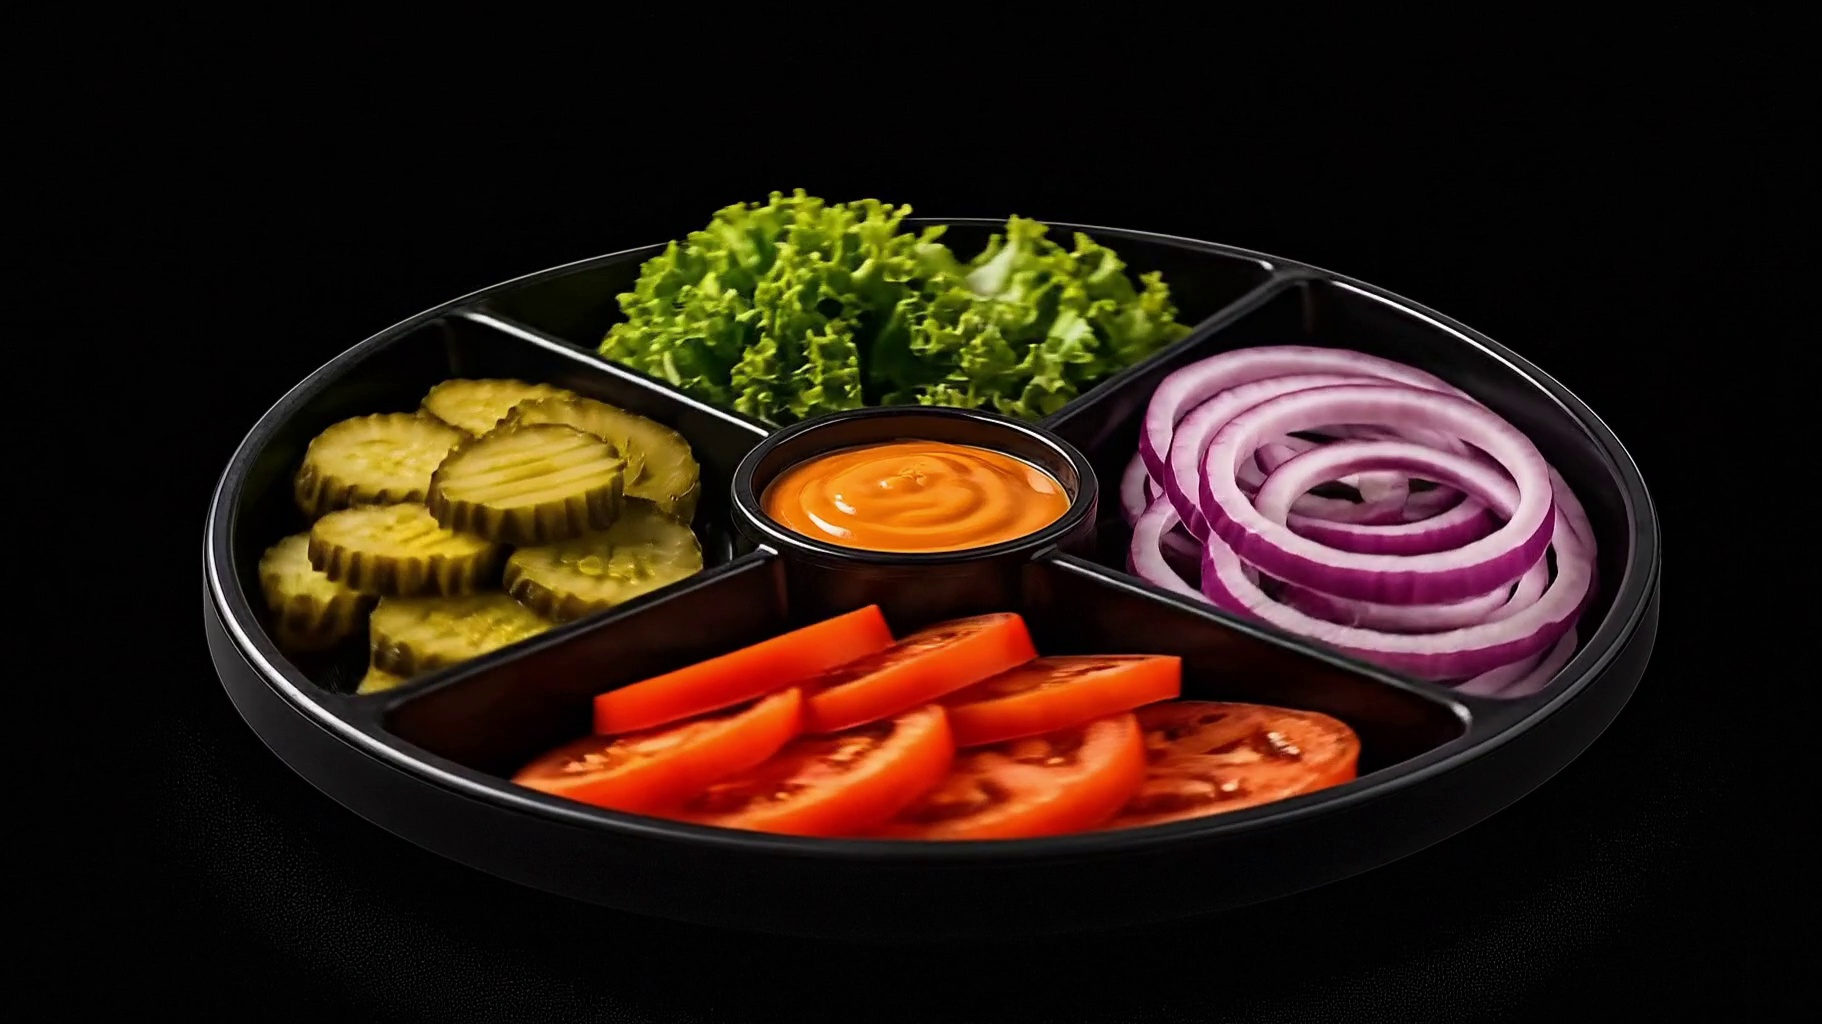
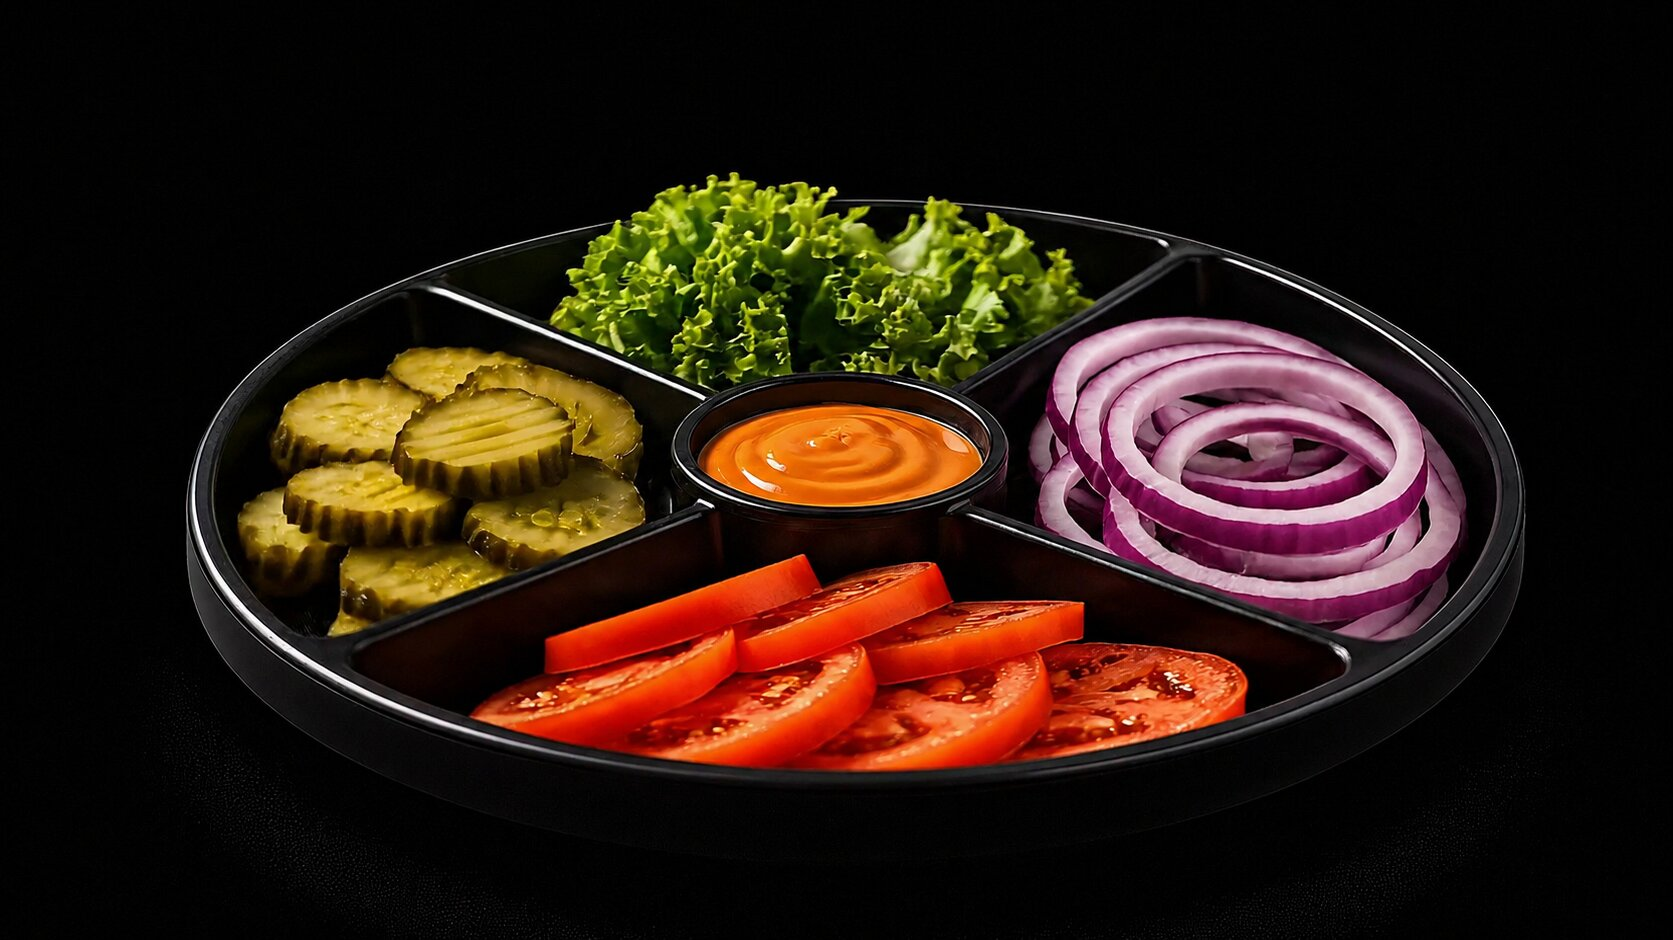
fix: adjust vegetable text order and center bun text; enable scroll lock by default

diff --git a/src/components/VegSection.jsx b/src/components/VegSection.jsx
@@ -122,10 +122,10 @@ const VegSection = () => {
 
   const texts = [
     { title: "Farm Fresh", desc: "Hand-picked vegetables delivered daily to ensure the highest quality crunch." },
-    { title: "Crisp Lettuce", desc: "Iceberg lettuce so fresh and crisp, it perfectly complements the savory beef." },
+    { title: "Crunchy Pickles", desc: "Dill pickles barrel-cured for that classic, unmistakable burger tang." },
     { title: "Juicy Tomatoes", desc: "Sun-ripened tomatoes sliced thick to provide a refreshing, tangy balance." },
     { title: "Zesty Onions", desc: "Perfectly pungent red onions that add the ultimate flavor kick." },
-    { title: "Crunchy Pickles", desc: "Dill pickles barrel-cured for that classic, unmistakable burger tang." }
+    { title: "Crisp Lettuce", desc: "Iceberg lettuce so fresh and crisp, it perfectly complements the savory beef." }
   ];
 
   return (

diff --git a/src/context/SettingsContext.jsx b/src/context/SettingsContext.jsx
@@ -3,7 +3,7 @@ import React, { createContext, useState, useContext, useCallback, useRef } from 
 const SettingsContext = createContext();
 
 export const SettingsProvider = ({ children }) => {
-  const [scrollLockEnabled, setScrollLockEnabled] = useState(false);
+  const [scrollLockEnabled, setScrollLockEnabled] = useState(true);
   const lockCount = useRef(0);
 
   const lockScroll = useCallback(() => {

diff --git a/src/components/BunSection.css b/src/components/BunSection.css
@@ -46,10 +46,18 @@
 
 .bun-text {
   position: absolute;
-  max-width: 90vw;
+  width: 100%;
+  max-width: 55vw;
+  padding: 0 1rem;
   text-align: center;
   opacity: 0;
   transform: translateY(20px) scale(0.95);
+}
+
+@media (max-width: 768px) {
+  .bun-text {
+    max-width: 75vw;
+  }
 }
 
 .bun-text h2 {
